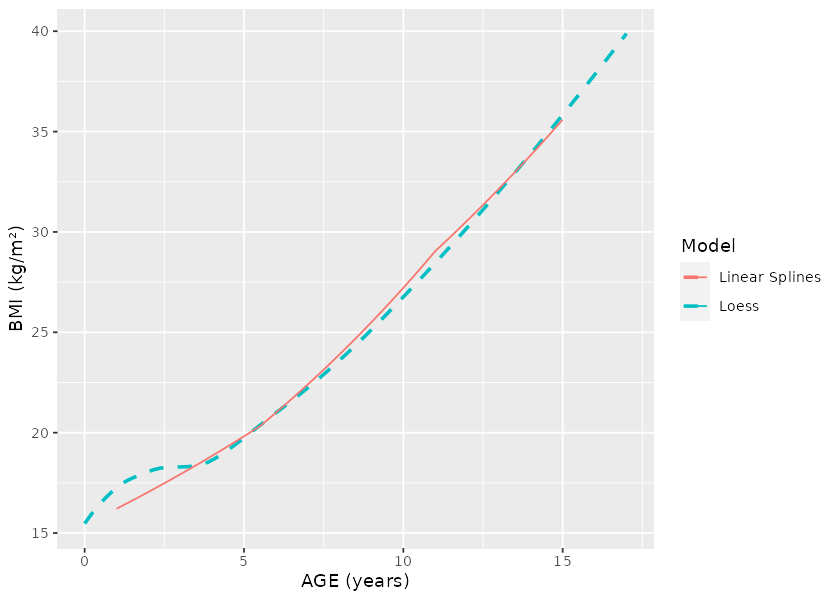
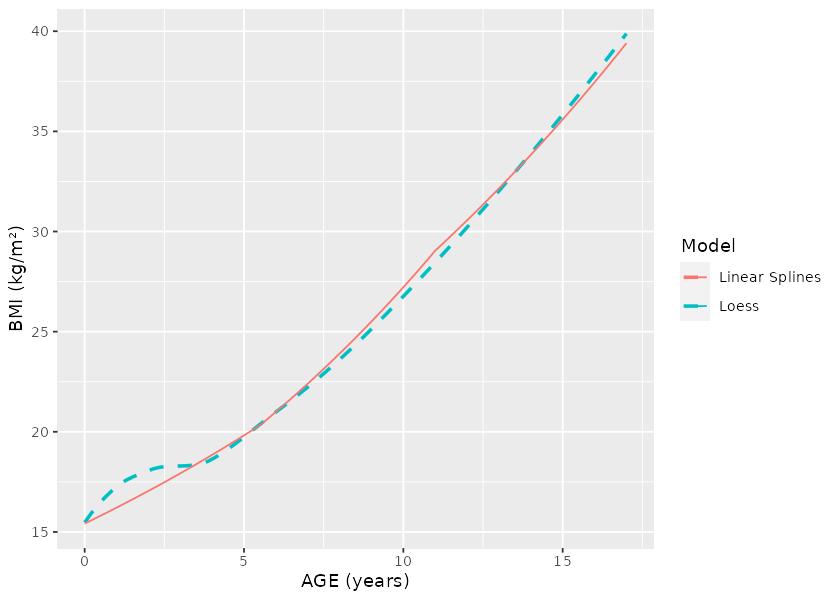
predict on data range

diff --git a/README.md b/README.md
@@ -155,7 +155,7 @@ ggplot() +
     method = "loess", formula = y ~ x, linetype = 2, se = FALSE
   ) +
   geom_path(
-    data = data.table(age = seq(1, 15, 0.1))[, 
+    data = data.table(age = seq(min(bmigrowth[["age"]]), max(bmigrowth[["age"]]), 0.1))[, 
       bmi := exp(predict(ls_mod, .SD, level = 0)), 
       .SDcols = "age"
     ],
